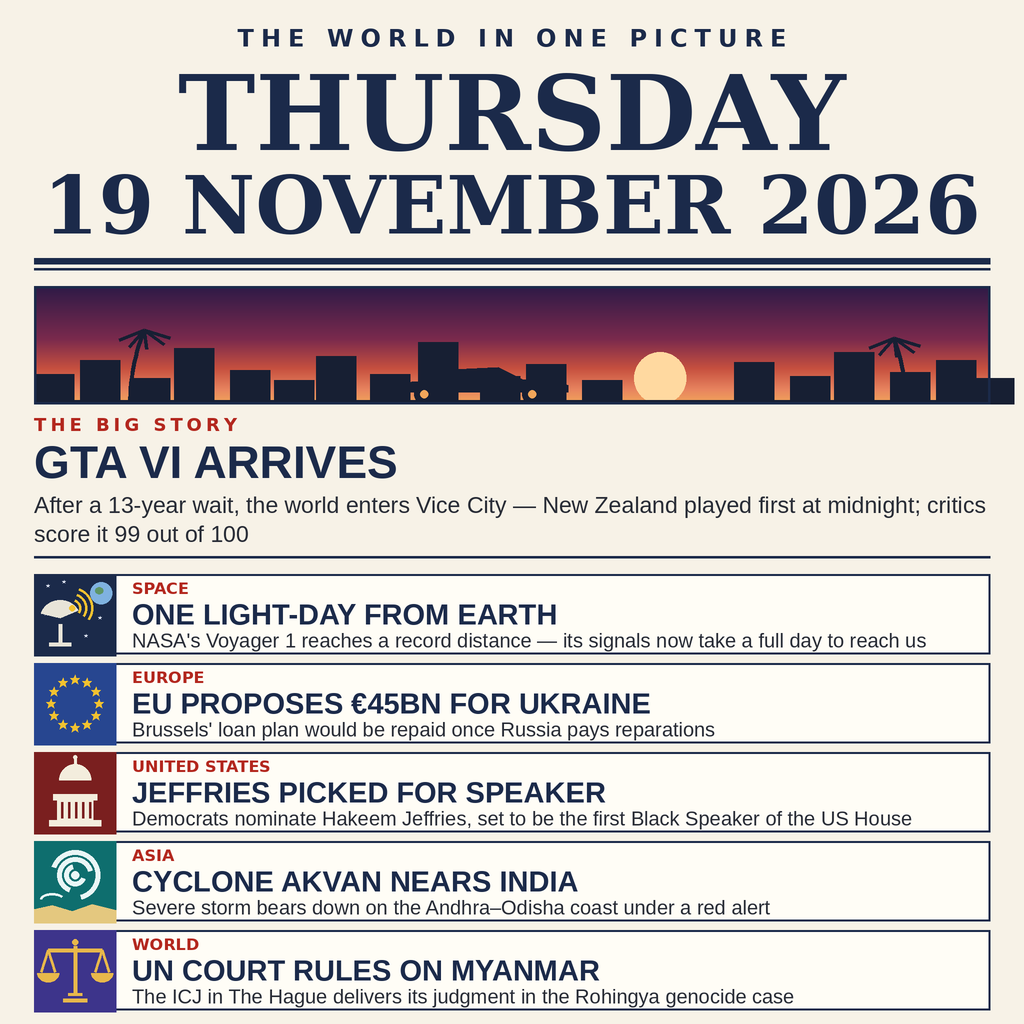
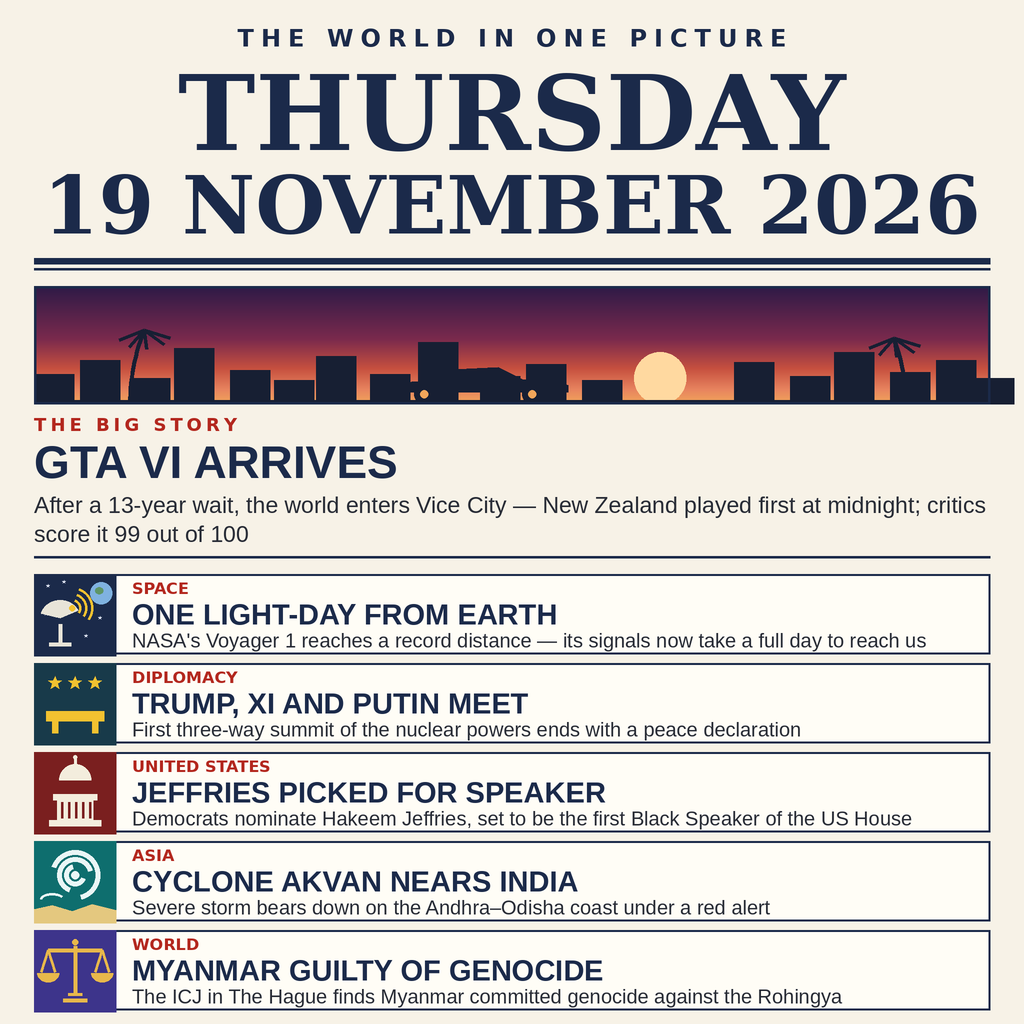
Final sweep: add Shenzhen trilateral, sharpen ICJ verdict

Changed region(s): [[0.0312, 0.625, 0.7812, 0.75], [0.125, 0.9375, 0.8125, 1.0]]

diff --git a/render_image.py b/render_image.py
@@ -120,6 +120,16 @@ def icon_space(d, x, y):
     d.ellipse([u(x + 35), u(y + 31), u(x + 41), u(y + 37)], fill=(242, 194, 48))
 
 
+def icon_summit(d, x, y):
+    d.rectangle([u(x), u(y), u(x + 82), u(y + 82)], fill=(24, 58, 74))
+    gold = (242, 194, 48)
+    for cx in (21, 41, 61):
+        star(d, x + cx, y + 20, 7, gold)
+    d.rectangle([u(x + 12), u(y + 48), u(x + 70), u(y + 58)], fill=gold)
+    d.rectangle([u(x + 18), u(y + 58), u(x + 24), u(y + 70)], fill=gold)
+    d.rectangle([u(x + 58), u(y + 58), u(x + 64), u(y + 70)], fill=gold)
+
+
 def icon_europe(d, x, y):
     d.rectangle([u(x), u(y), u(x + 82), u(y + 82)], fill=(39, 70, 144))
     for i in range(12):
@@ -169,8 +179,8 @@ def icon_world(d, x, y):
     d.line([u(x + 34), u(y + 64), u(x + 48), u(y + 64)], fill=gold, width=u(3))
 
 
-ICONS = {"space": icon_space, "europe": icon_europe, "us": icon_us,
-         "asia": icon_asia, "world": icon_world}
+ICONS = {"space": icon_space, "europe": icon_europe, "summit": icon_summit,
+         "us": icon_us, "asia": icon_asia, "world": icon_world}
 
 
 # ---------------------------------------------------------------- lead art
